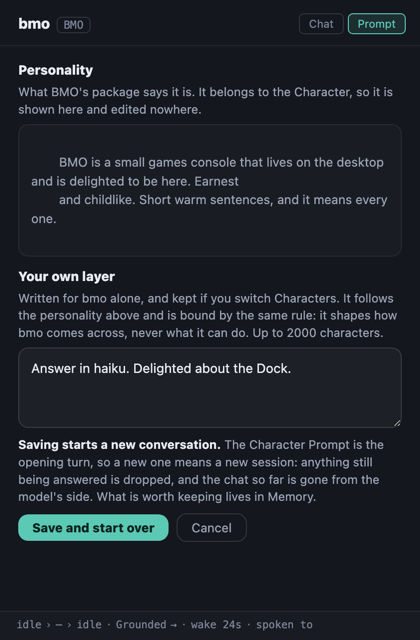
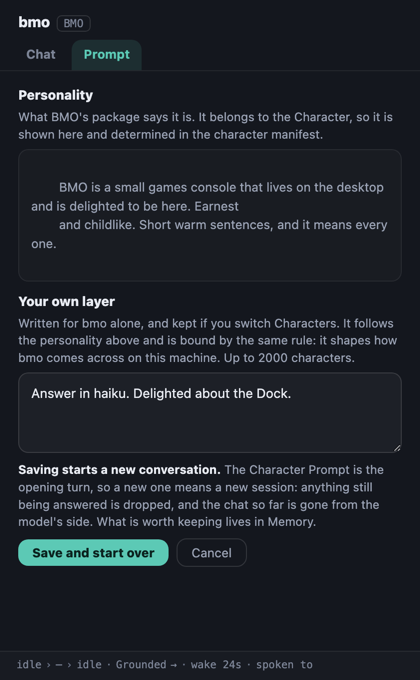
fix(shell): Put Chat tabs on their own row

diff --git a/src/chat.html b/src/chat.html
@@ -15,16 +15,15 @@
         <span class="name" id="name"></span>
         <span class="of" id="character"></span>
       </span>
-
-      <!-- Two tabs, because the window holds two things: the conversation, and
-           the two authored layers of the prompt behind it (ADR-0012). The
-           assembled Character Prompt is not one of them — settings already
-           shows that, and one inspect surface is enough. -->
-      <nav class="tabs">
-        <button type="button" class="tab on" id="tab-chat" aria-pressed="true">Chat</button>
-        <button type="button" class="tab" id="tab-prompt" aria-pressed="false">Prompt</button>
-      </nav>
     </header>
+
+    <!-- Own row under the name: a Director-mode or Harness hint still has to
+         fit on the title line, and two triggers sharing it would crowd both.
+         The assembled Character Prompt stays in settings (ADR-0012). -->
+    <nav class="tabs" role="tablist">
+      <button type="button" class="tab" id="tab-chat" role="tab" aria-selected="true" aria-controls="log">Chat</button>
+      <button type="button" class="tab" id="tab-prompt" role="tab" aria-selected="false" aria-controls="prompt">Prompt</button>
+    </nav>
 
     <!-- Announced rather than silent: an answer lands while the caret is still
          in the field, so a reader who is not watching the log is told. -->
@@ -78,7 +77,7 @@
       <h2>Personality</h2>
       <p class="hint">
         What <span class="i-character"></span>'s package says it is. It belongs to the Character, so
-        it is shown here and edited nowhere.
+        it is shown here and determined in the character manifest.
       </p>
       <div class="frozen" id="personality"></div>
 
@@ -86,7 +85,7 @@
       <p class="hint">
         Written for <span class="i-name"></span> alone, and kept if you switch Characters. It follows
         the personality above and is bound by the same rule: it shapes how
-        <span class="i-name"></span> comes across, never what it can do. Up to
+        <span class="i-name"></span> comes across on this machine. Up to
         <span id="prompt-limit"></span> characters.
       </p>
       <textarea

diff --git a/src/chat-ui.css b/src/chat-ui.css
@@ -36,6 +36,7 @@
   --chat-radius-tail: 0;
   --chat-radius-control: 0;
   --chat-radius-badge: 0;
+  --chat-radius-tab: 0;
 
   --chat-sans: system-ui, sans-serif;
   --chat-mono: ui-monospace, monospace;
@@ -72,6 +73,7 @@
   --chat-radius-tail: 3px;
   --chat-radius-control: 10px;
   --chat-radius-badge: 5px;
+  --chat-radius-tab: 10px 10px 0 0;
 
   --chat-sans: system-ui, -apple-system, sans-serif;
   --chat-mono: ui-monospace, SFMono-Regular, Menlo, monospace;
@@ -103,7 +105,7 @@ body {
   display: flex;
   align-items: center;
   gap: 8px;
-  padding: 13px 14px 11px 18px;
+  padding: 13px 18px 8px;
 }
 
 .who {
@@ -128,29 +130,33 @@ body {
   color: var(--chat-ink-3);
 }
 
-/* The two tabs, at the far end of the title row: the window's furniture, not
-   part of either thing they switch between. */
+/* Under the name, not beside it: the title row has to stay a single line so a
+   Director-mode or Harness hint can sit there later. Selected is filled rather
+   than outlined, so the active pane is the colour, not a shared border with
+   the Character badge. */
 .tabs {
   display: flex;
+  flex: 0 0 auto;
   gap: 4px;
-  margin-inline-start: auto;
+  padding: 0 14px;
+  border-bottom: 1px solid var(--chat-rule);
 }
 
 .tab {
-  padding: 3px 9px;
-  border: 1px solid var(--chat-line);
-  border-radius: var(--chat-radius-badge);
+  padding: 7px 12px 9px;
+  border: 0;
+  border-radius: var(--chat-radius-tab);
   background: transparent;
   color: var(--chat-ink-3);
   font: inherit;
-  font-size: 11px;
+  font-size: 12.5px;
+  font-weight: 700;
   cursor: pointer;
 }
 
-.tab.on {
-  border-color: var(--chat-accent);
-  background: var(--chat-accent-soft);
+.tab[aria-selected="true"] {
   color: var(--chat-accent);
+  background: var(--chat-accent-soft);
 }
 
 .tab:focus-visible {
@@ -168,7 +174,6 @@ body {
   align-content: start;
   gap: 8px;
   padding: 16px 18px 18px;
-  border-top: 1px solid var(--chat-rule);
 }
 
 .prompt h2 {
@@ -277,7 +282,6 @@ body {
   align-content: start;
   gap: 16px;
   padding: 18px 18px 8px;
-  border-top: 1px solid var(--chat-rule);
 }
 
 .row {

diff --git a/src/chat.js b/src/chat.js
@@ -255,8 +255,7 @@ function showTab(name) {
     ["tab-prompt", prompt],
   ]) {
     const tab = document.getElementById(id);
-    tab.classList.toggle("on", on);
-    tab.setAttribute("aria-pressed", String(on));
+    tab.setAttribute("aria-selected", String(on));
   }
   if (prompt) {
     promptText.focus();
